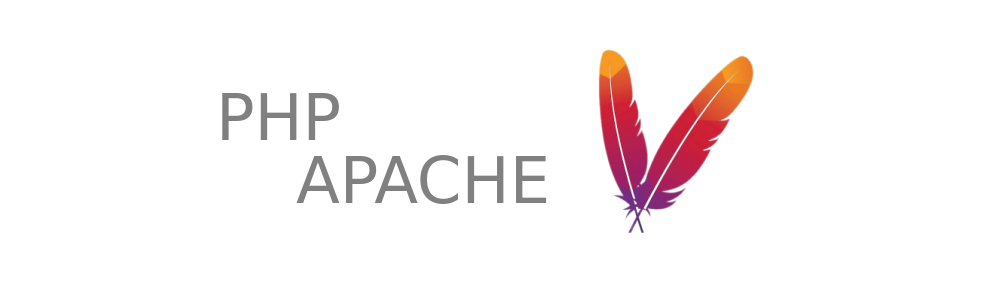
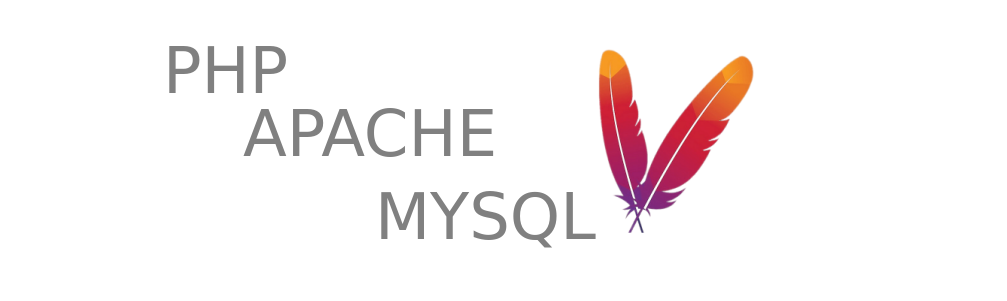
doc: [stabled] [work] Updated Documentation

Changed region(s): [[0.1539, 0.1495, 0.6157, 0.8372]]

diff --git a/README.md b/README.md
@@ -1,7 +1,7 @@
 # PHP8-APACHE + MYSQL8
 A quick and single repository to build an environment for PHP8 with Apache2 and MYSQL8
 
-![banner.png](php8-apache/files/medias/banner.png)
+![banner.png](php8-apache-mysql/files/medias/banner.png)
 
 
 # Information
